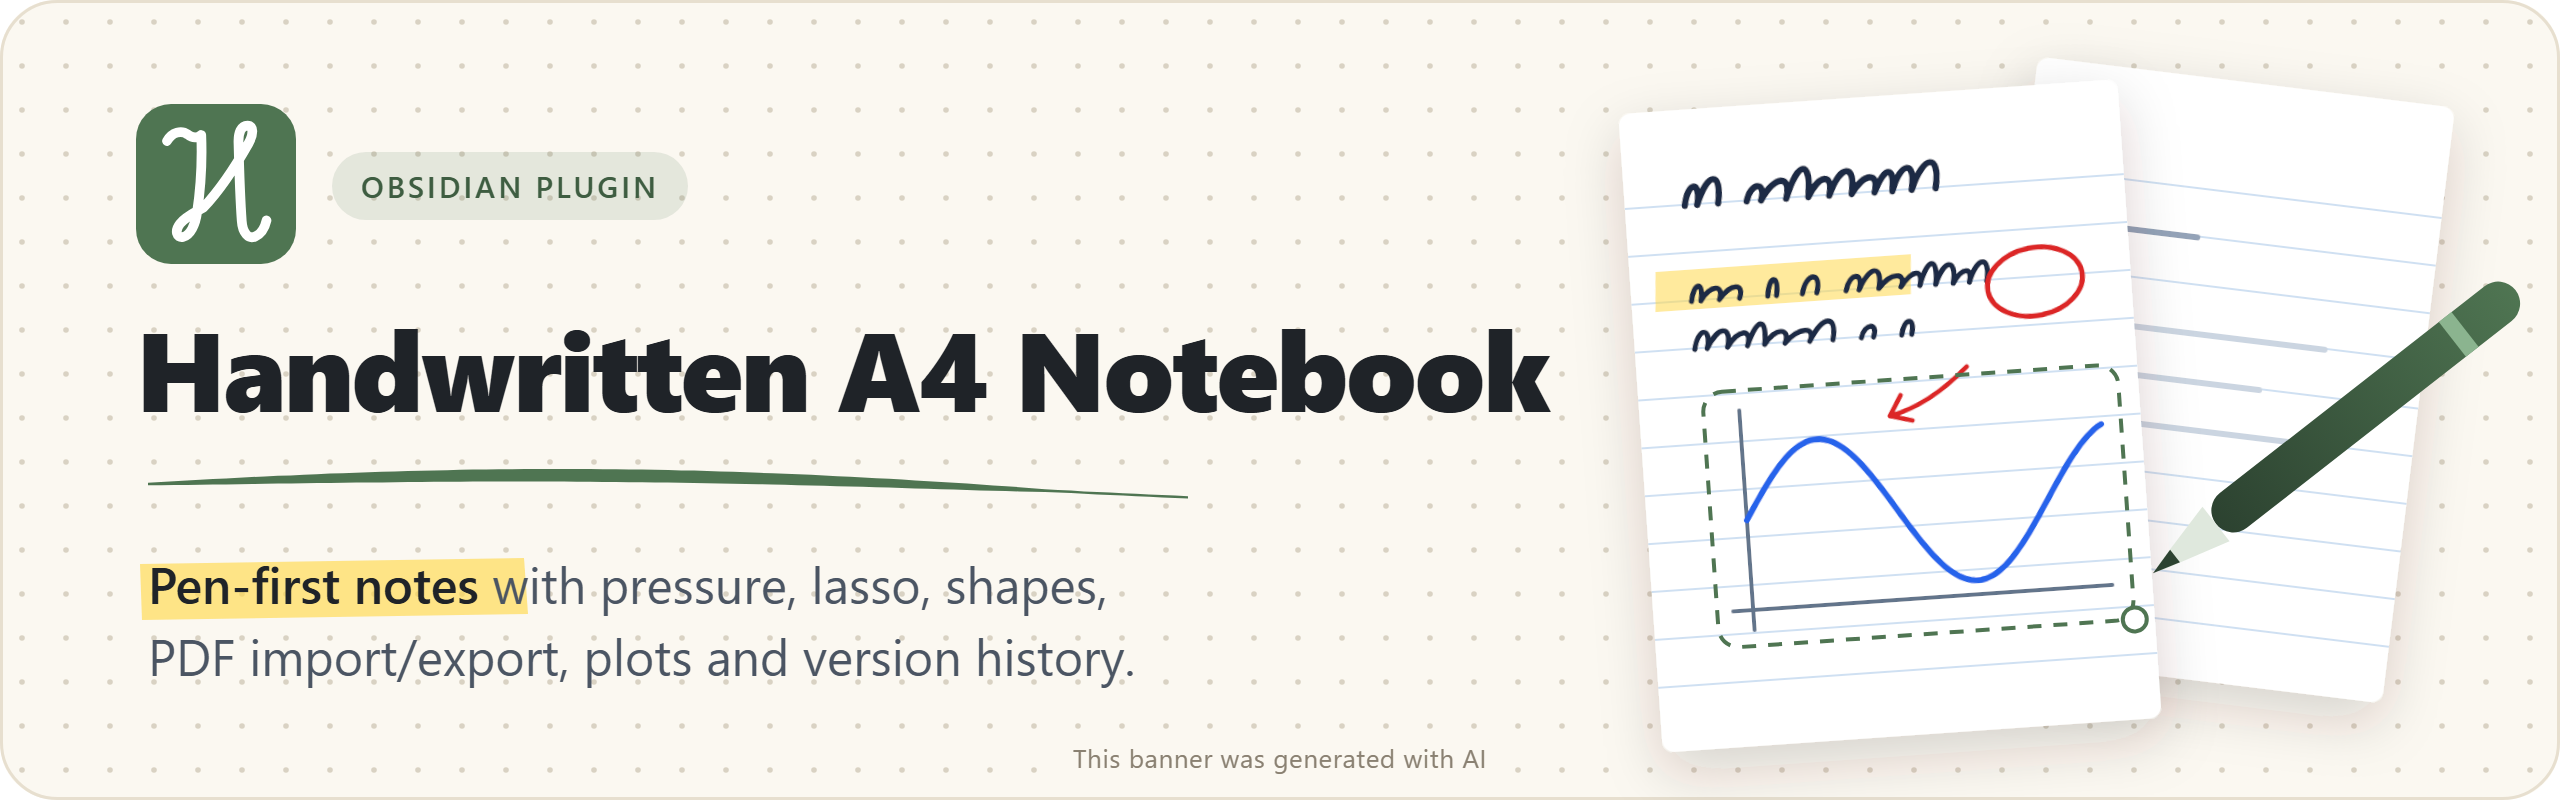
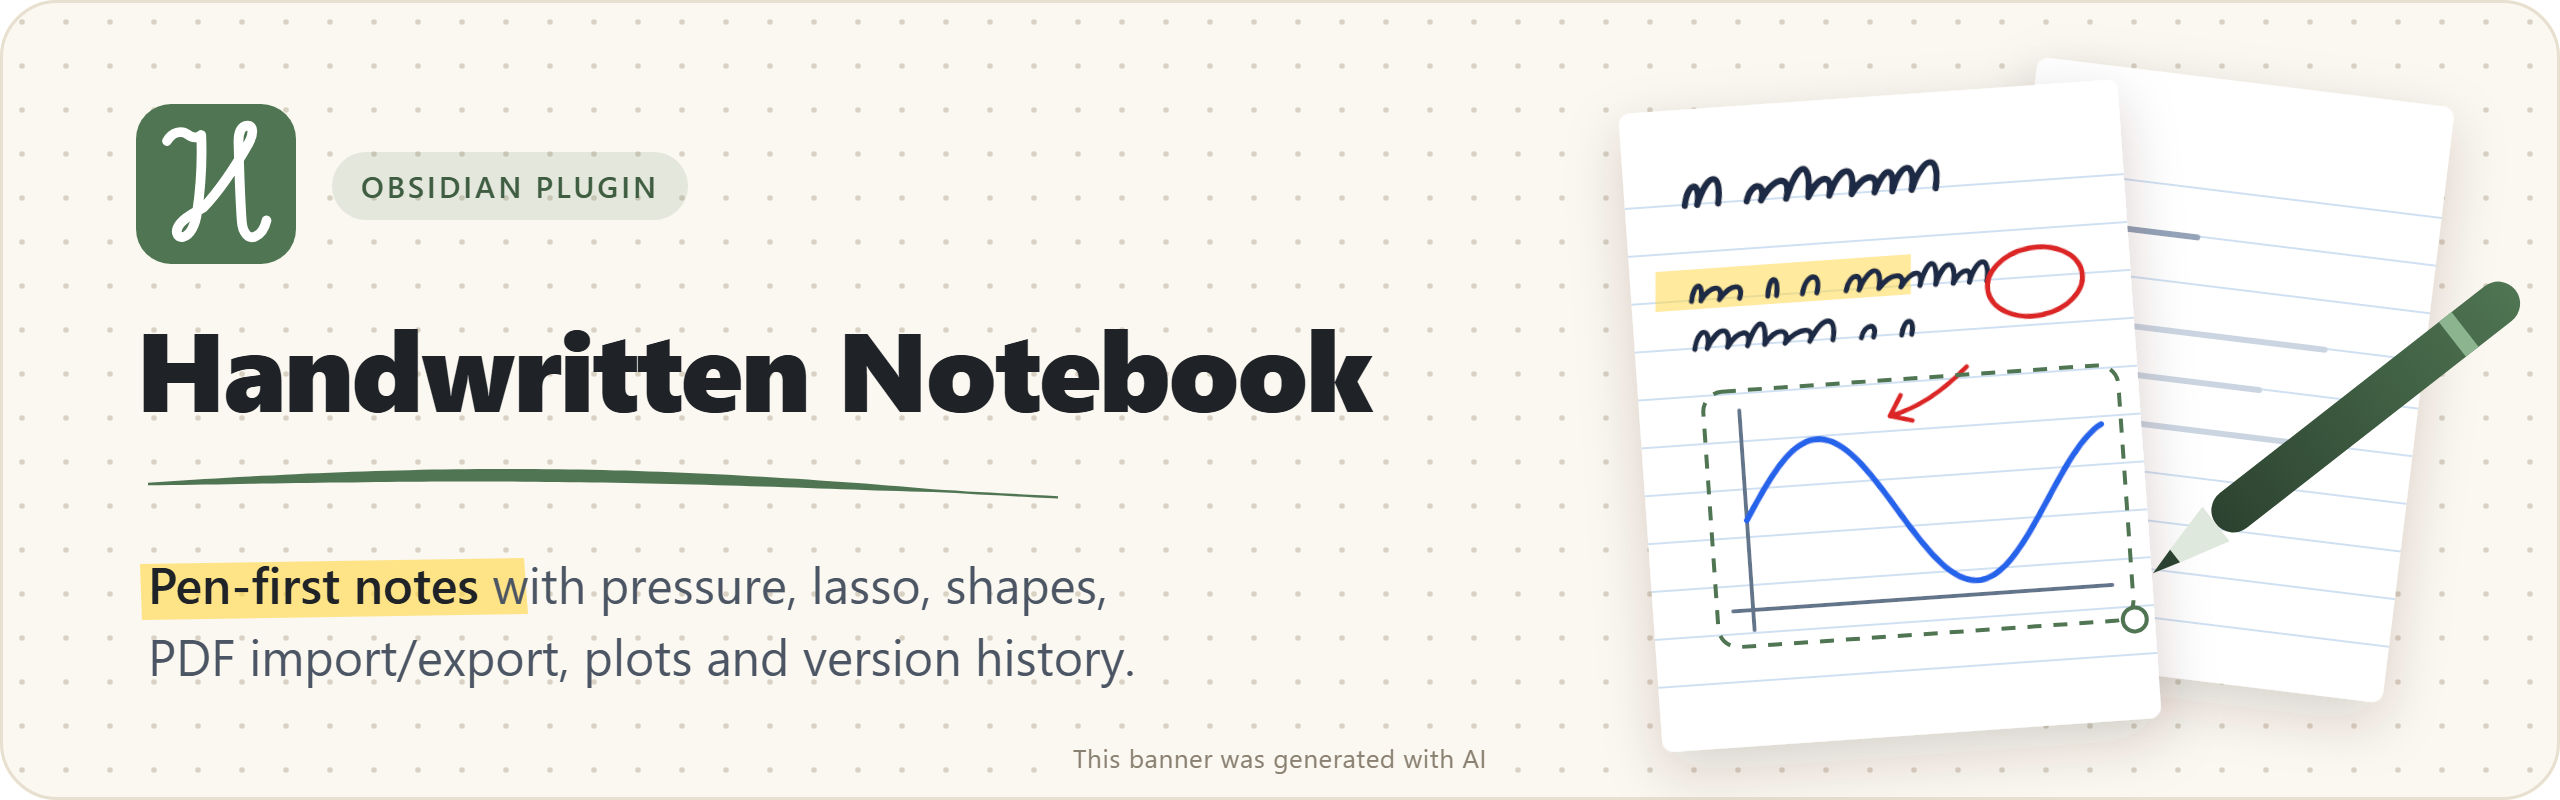
added: copy page and move to last page options. Changed: name of the extansion to Handwritten Notebook

Changed region(s): [[0.3125, 0.4062, 0.625, 0.5312], [0.25, 0.5625, 0.4688, 0.625]]

diff --git a/src/view/clipboard.ts b/src/view/clipboard.ts
@@ -1,6 +1,6 @@
 import { defineMixin } from './mixin';
 import { Notice } from 'obsidian';
-import { ImageItem } from '../types';
+import { ImageItem, PageData } from '../types';
 import { newId } from '../utils';
 import { VaultAdapter, isLocalRef, copyLocalRef, writeDataMeta } from '../dataFolder';
 
@@ -72,6 +72,56 @@ export const clipboardMixin = defineMixin({
         this.selection = { page: pageIndex, strokes: [...strokes], images: [...images] };
         this.updateSelectionUI();
         this.redrawPage(pageIndex);
+    },
+
+    /** Copies a whole page (content, background, pattern, paper, size) – "Paste page" inserts it in any note. */
+    copyPage(i: number) {
+        const page = this.noteData.pages[i];
+        if (!page) return;
+        this.plugin.pageClip = { page: JSON.parse(JSON.stringify(page)) as PageData, from: this.file?.path };
+        new Notice('Page copied. Paste it in any note with the right-click menu (Paste page).');
+    },
+
+    /** Inserts the copied page as a new page at position `at`. */
+    pastePage(at: number) {
+        const clip = this.plugin.pageClip;
+        if (!clip || !this.canEdit() || this.endlessBlocksPages()) return;
+        if (clip.page.endless && this.noteData.pages.length > 0) {
+            new Notice('An endless page can only be pasted into an empty note. Change the copied page to Portrait or Landscape first.', 7000);
+            return;
+        }
+        const page = JSON.parse(JSON.stringify(clip.page)) as PageData;
+        // Files from another note's hidden folder (images, PDF background) must first be copied to this note's folder.
+        const here = this.file?.path;
+        const from = clip.from;
+        const refs = [page.bgPath, ...(page.images ?? []).map(im => im.path)];
+        if (from && here && from !== here && refs.some(r => isLocalRef(r))) {
+            void (async () => {
+                const a = this.app.vault.adapter as VaultAdapter;
+                try {
+                    if (isLocalRef(page.bgPath)) page.bgPath = await copyLocalRef(a, from, here, page.bgPath, newId);
+                } catch { new Notice('The page background could not be copied to this note.'); delete page.bgPath; }
+                const images: ImageItem[] = [];
+                for (const im of page.images ?? []) {
+                    if (isLocalRef(im.path)) {
+                        try { im.path = await copyLocalRef(a, from, here, im.path, newId); }
+                        catch { new Notice('An image could not be copied to this note.'); continue; }
+                    }
+                    images.push(im);
+                }
+                if (page.images) page.images = images;
+                await writeDataMeta(a, here, this.noteData.id);
+                // The copied files are now in this note's folder: further pastes here need no copying.
+                this.plugin.pageClip = { page: JSON.parse(JSON.stringify(page)) as PageData, from: here };
+                this.pastePage(at);
+            })();
+            return;
+        }
+        for (const im of page.images ?? []) im.id = `${im.id}-${Math.random().toString(36).slice(2, 7)}`;
+        const pages = [...this.noteData.pages];
+        const pos = Math.max(0, Math.min(at, pages.length));
+        pages.splice(pos, 0, page);
+        this.applyPagesArray(pages, pos, 'Page pasted');
     },
 });
 export type ClipboardMethods = typeof clipboardMixin;

diff --git a/src/view/currentPage.ts b/src/view/currentPage.ts
@@ -14,6 +14,7 @@ export const currentPageMixin = defineMixin({
     /** Rebuilds what depends on the page list (after pages were added / removed / renamed). */
     buildPageIndicator() {
         this.currentPageIdx = -1;   // pages were rebuilt: mark the current page again
+        this.pinnedPageIdx = -1;
         if (this.pageNumEl) { this.pageNumEl.remove(); this.pageNumEl = null; }
         if (this.scrollArea) {
             const el = this.scrollArea.createEl('button', { cls: 'hw-page-num' });
@@ -35,12 +36,41 @@ export const currentPageMixin = defineMixin({
         return { i, within: y - (tops[i] ?? 0) };
     },
 
-    /** Current page from the view position: frame, pages panel and the indicator. Called after every view change. */
+    /** Tapped / clicked page becomes the current one (until it leaves the view). */
+    pinCurrentPage(i: number) {
+        if (i < 0 || i >= this.noteData.pages.length) return;
+        this.pinnedPageIdx = i;
+        this.activePageIndex = i;
+        this.updateCurrentPage();
+    },
+
+    /** Whether page i is (at least partly) visible in the view. */
+    pageVisibleInView(i: number): boolean {
+        const area = this.scrollArea;
+        const view = this.pageViews[i];
+        if (!area || !view) return false;
+        const z = this.currentZoom;
+        const top = this.pagePositionY + (view.outer.offsetTop + view.container.offsetTop) * z;
+        const left = this.pagePositionX + (view.outer.offsetLeft + view.container.offsetLeft) * z;
+        const bottom = top + this.pageH(i) * z, right = left + this.pageW(i) * z;
+        return bottom > 0 && top < area.clientHeight && right > 0 && left < area.clientWidth;
+    },
+
+    /**
+     * Current page: the tapped page while it is still visible, otherwise the page in the middle of the view.
+     * Updates the frame, pages panel and the indicator. Called after every view change.
+     */
     updateCurrentPage() {
         const n = this.noteData.pages.length;
-        const viewH = this.scrollArea?.clientHeight ?? 0;
-        const cy = (viewH / 2 - this.pagePositionY) / this.currentZoom;
-        const idx = n ? Math.max(0, Math.min(n - 1, this.pageAtWrapperY(cy).i)) : 0;
+        let idx: number;
+        if (this.pinnedPageIdx >= 0 && this.pinnedPageIdx < n && this.pageVisibleInView(this.pinnedPageIdx)) {
+            idx = this.pinnedPageIdx;
+        } else {
+            this.pinnedPageIdx = -1;
+            const viewH = this.scrollArea?.clientHeight ?? 0;
+            const cy = (viewH / 2 - this.pagePositionY) / this.currentZoom;
+            idx = n ? Math.max(0, Math.min(n - 1, this.pageAtWrapperY(cy).i)) : 0;
+        }
         if (idx !== this.currentPageIdx) {
             this.currentPageIdx = idx;
             this.markPanelCurrent(idx);

diff --git a/src/main.ts b/src/main.ts
@@ -59,6 +59,8 @@ export default class HandwritingPlugin extends Plugin {
     lastPrune: Map<string, number> = new Map();
     /** Plugin clipboard (cut / copied strokes and images). */
     clip: { strokes: Stroke[]; images: ImageItem[]; from?: string } | null = null;
+    /** Copied whole page ("Copy page" / "Paste page" in the page menu) – also between notes. */
+    pageClip: { page: PageData; from?: string } | null = null;
     openCalculator() { new CalculatorModal(this.app, this.calcState).open(); }
 
     settings: HandwritingSettings = { ...DEFAULT_SETTINGS };
@@ -610,6 +612,8 @@ export class HandwritingView extends TextFileView {
 
     // Current page (src/view/currentPage.ts)
     currentPageIdx = -1;
+    /** Page made current by tapping / clicking it (stays current while it is visible), -1 = none. */
+    pinnedPageIdx = -1;
     /** "12 / 40" indicator beside the current page. */
     pageNumEl: HTMLElement | null = null;
     pageNumW = 0;
@@ -1143,7 +1147,20 @@ export class HandwritingView extends TextFileView {
             singlePageContainer.addEventListener('pointerenter', (e) => {
                 if (e.pointerType !== 'touch') this.activePageIndex = index;
             });
-            singlePageContainer.addEventListener('pointerdown', () => { this.activePageIndex = index; }, true);
+            // Tapping / clicking / writing on a page makes it the current page (a finger scroll does not).
+            let tapStart: { id: number; x: number; y: number } | null = null;
+            singlePageContainer.addEventListener('pointerdown', (e) => {
+                this.activePageIndex = index;
+                if (e.pointerType === 'touch') tapStart = { id: e.pointerId, x: e.clientX, y: e.clientY };
+                else this.pinCurrentPage(index);
+            }, true);
+            singlePageContainer.addEventListener('pointerup', (e) => {
+                const t = tapStart;
+                if (!t || t.id !== e.pointerId) return;
+                tapStart = null;
+                if (Math.hypot(e.clientX - t.x, e.clientY - t.y) < 10) this.pinCurrentPage(index);
+            }, true);
+            singlePageContainer.addEventListener('pointercancel', () => { tapStart = null; }, true);
 
             const highCanvas = pageContainer.createEl("canvas", { cls: "hw-layer-highlighter" });
             const bottomCanvas = pageContainer.createEl("canvas", { cls: "hw-layer-bottom" });

diff --git a/src/view/selection.ts b/src/view/selection.ts
@@ -85,10 +85,18 @@ export const selectionMixin = defineMixin({
         if (!sel) return;
         const target = this.dropTargetPage(from);
         if (target === from) return;
+        const fromView = this.pageViews[from], toView = this.pageViews[target];
+        if (!fromView || !toView) return;
+        this.transferSelection(from, target, fromView.outer.offsetTop - toView.outer.offsetTop);
+    },
+
+    /** Moves the selected items from page `from` to page `target`, shifted down by `dy` (undoable). */
+    transferSelection(from: number, target: number, dy: number) {
+        const sel = this.selection;
+        if (!sel || target === from) return;
         const src = this.noteData.pages[from];
         const dst = this.noteData.pages[target];
         if (!src || !dst) return;
-        const dy = this.pageViews[from].outer.offsetTop - this.pageViews[target].outer.offsetTop;
         const strokes = [...sel.strokes], images = [...sel.images];
         this.translateItems(strokes, images, 0, dy);
         src.strokes = src.strokes.filter(st => !strokes.includes(st));
@@ -100,6 +108,23 @@ export const selectionMixin = defineMixin({
         this.activePageIndex = target;
         this.redrawPage(from);
         this.redrawPage(target);
+    },
+
+    /** Selection menu: moves the selected items to the last page (same place on the page) and shows it. */
+    moveSelectionToLastPage() {
+        const sel = this.selection;
+        if (!sel || !this.canEdit()) return;
+        const from = sel.page;
+        const target = this.noteData.pages.length - 1;
+        if (target <= from) return;
+        // Same position on the page; moved up if the last page is shorter and the items would stick out.
+        const b = this.getSelectionBounds();
+        let dy = 0;
+        if (b) dy = Math.max(-b.y, Math.min(0, this.pageH(target) - (b.y + b.h)));
+        this.transferSelection(from, target, dy);
+        this.requestSave();
+        this.updateSelectionUI();
+        this.scrollToPage(target);
     },
 
     clearSelection() {

diff --git a/src/view/selectionEdit.ts b/src/view/selectionEdit.ts
@@ -447,6 +447,7 @@ export const selectionEditMixin = defineMixin({
         menu.addItem(i => i.setTitle('Send to back').setIcon('send-to-back').onClick(() => this.arrangeSelection('back')));
         if (this.selectionUnits().length >= 2) menu.addItem(i => i.setTitle('Align…').setIcon('align-center-horizontal').onClick(() => window.setTimeout(() => this.openAlignPanel(at.x, at.y), 30)));
         menu.addItem(i => i.setTitle('Lock').setIcon('lock').onClick(() => this.lockSelection()));
+        if (sel.page < this.noteData.pages.length - 1 && !this.readOnly) menu.addItem(i => i.setTitle('Move to last page').setIcon('arrow-down-to-line').onClick(() => this.moveSelectionToLastPage()));
         menu.addSeparator();
         menu.addItem(i => i.setTitle('Rotate right 90°').setIcon('rotate-cw').onClick(() => this.rotateSelectionBy(Math.PI / 2)));
         menu.addItem(i => i.setTitle('Rotate left 90°').setIcon('rotate-ccw').onClick(() => this.rotateSelectionBy(-Math.PI / 2)));

diff --git a/src/view/contextMenu.ts b/src/view/contextMenu.ts
@@ -96,6 +96,11 @@ export const contextMenuMixin = defineMixin({
                 menu.addItem(i => i.setTitle(has ? 'Rename page title…' : 'Page title…').setIcon('heading').onClick(() => this.editPageTitle(idx)));
             }
             menu.addItem(i => i.setTitle('Page style…').setIcon('paintbrush').onClick(() => this.openPageStylePanel({ left: clientX, top: clientY, bottom: clientY })));
+            if (idx >= 0) menu.addItem(i => i.setTitle('Copy page').setIcon('copy').onClick(() => this.copyPage(idx)));
+            if (this.plugin.pageClip && !this.readOnly) {
+                const pos = idx >= 0 ? idx + 1 : this.noteData.pages.length;
+                menu.addItem(i => i.setTitle('Paste page').setIcon('clipboard-paste').onClick(() => this.pastePage(pos)));
+            }
             menu.addSeparator();
             this.addPageQuickItems(menu);
         }

diff --git a/site/shim/workspace.ts b/site/shim/workspace.ts
@@ -126,7 +126,7 @@ export class AppSetting {
         if (this.modal && this.openId === id) return;
         this.close();
         this.openId = id;
-        this.modal = new SettingsModal(this.app, tab, 'Settings – Handwritten A4 Notebook');
+        this.modal = new SettingsModal(this.app, tab, 'Settings – Handwritten Notebook');
         const m = this.modal;
         const origClose = m.onClose.bind(m);
         m.onClose = () => { origClose(); if (this.modal === m) { this.modal = null; this.openId = null; } };

diff --git a/src/pdf.ts b/src/pdf.ts
@@ -57,7 +57,7 @@ export function buildPdf(pages: PdfPageImage[], title: string, outline: PdfOutli
         push(p.data);
         push('\nendstream\nendobj\n');
     });
-    begin(infoObj); push(`<< /Title ${pdfText(title)} /Producer (Handwritten A4 Notebook) >>\nendobj\n`);
+    begin(infoObj); push(`<< /Title ${pdfText(title)} /Producer (Handwritten Notebook) >>\nendobj\n`);
 
     let total = infoObj;
     if (outItems.length) {

diff --git a/src/view/pageTools.ts b/src/view/pageTools.ts
@@ -181,6 +181,7 @@ export const pageToolsMixin = defineMixin({
         this.stopInertia();
         this.activePageIndex = i;
         this.pagePositionY = -(view.outer.offsetTop - 10) * this.currentZoom;
+        this.pinnedPageIdx = i;   // the page jumped to is the current one (also when a shorter page sits below it)
         this.applyManualZoom();
         this.scheduleRedrawAfterZoom();
     },

diff --git a/README.md b/README.md
@@ -1,6 +1,6 @@
-<p align="center"><img src="docs/banner.png" alt="Handwritten A4 Notebook - an Obsidian plugin for pen-first handwritten notes" width="100%"></p>
+<p align="center"><img src="docs/banner.png" alt="Handwritten Notebook - an Obsidian plugin for pen-first handwritten notes" width="100%"></p>
 
-<h1 align="center">Handwritten A4 Notebook</h1>
+<h1 align="center">Handwritten Notebook</h1>
 
 <p align="center">
   Write by hand on real pages in Obsidian - pressure ink, shapes, PDFs and a calculator,<br>
@@ -38,7 +38,7 @@
 
 ## Install
 
-- **Community plugins:** Settings → Community plugins → Browse → search *Handwritten A4 Notebook* → Install → Enable.
+- **Community plugins:** Settings → Community plugins → Browse → search *Handwritten Notebook* → Install → Enable.
 - **Beta via BRAT:** install *BRAT* → *Add beta plugin* → `otho-dll/Obsidian-Handwriting`.
 - **Manually:** copy `main.js`, `manifest.json` and `styles.css` from the [latest release](https://github.com/otho-dll/Obsidian-Handwriting/releases/latest)
   into `<vault>/.obsidian/plugins/handwritten-notebook/` and enable the plugin.
